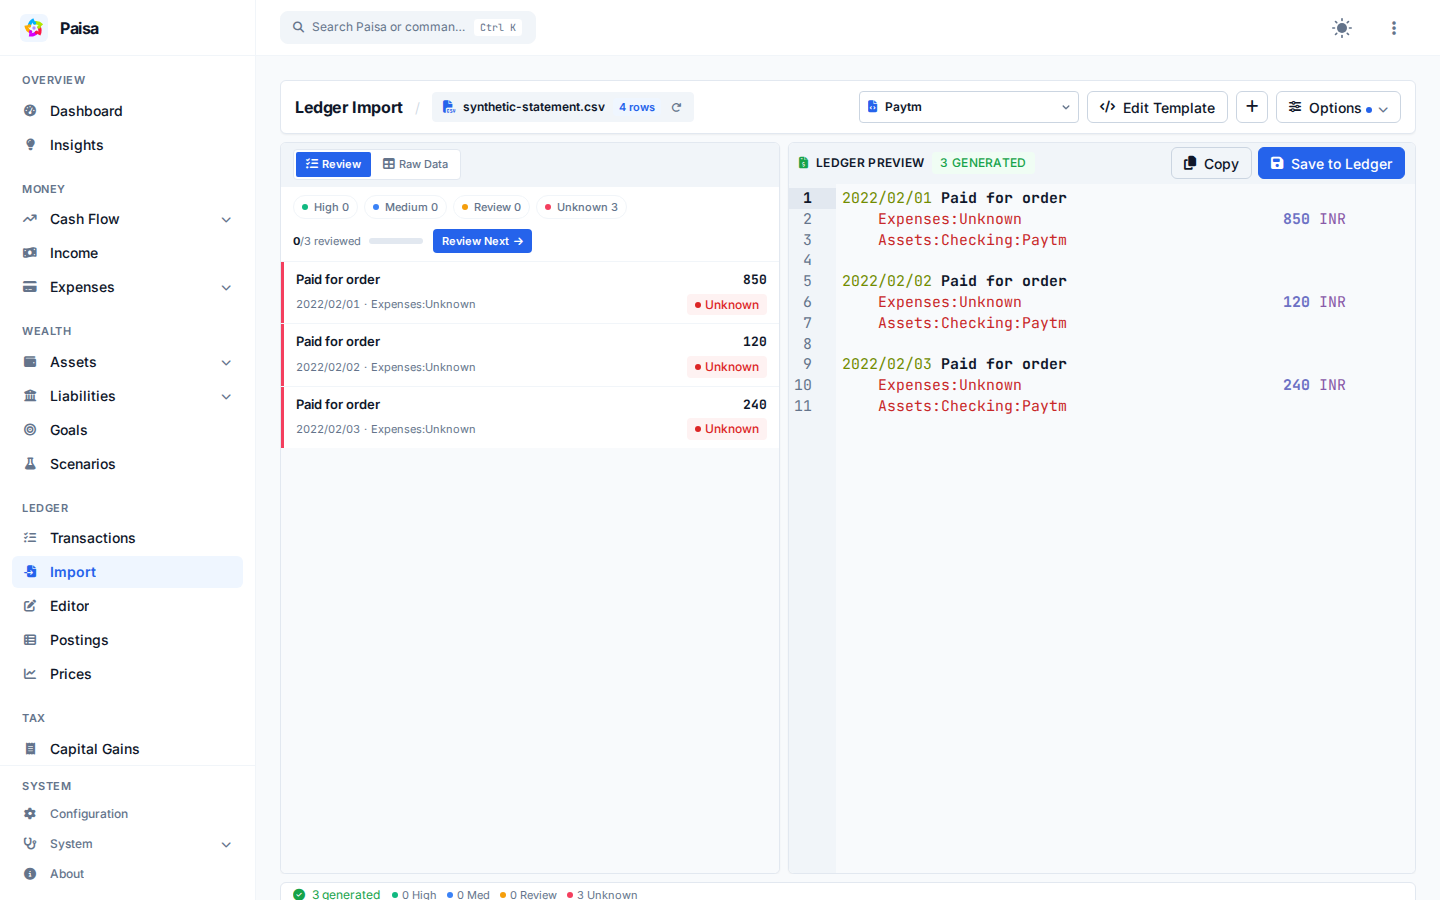
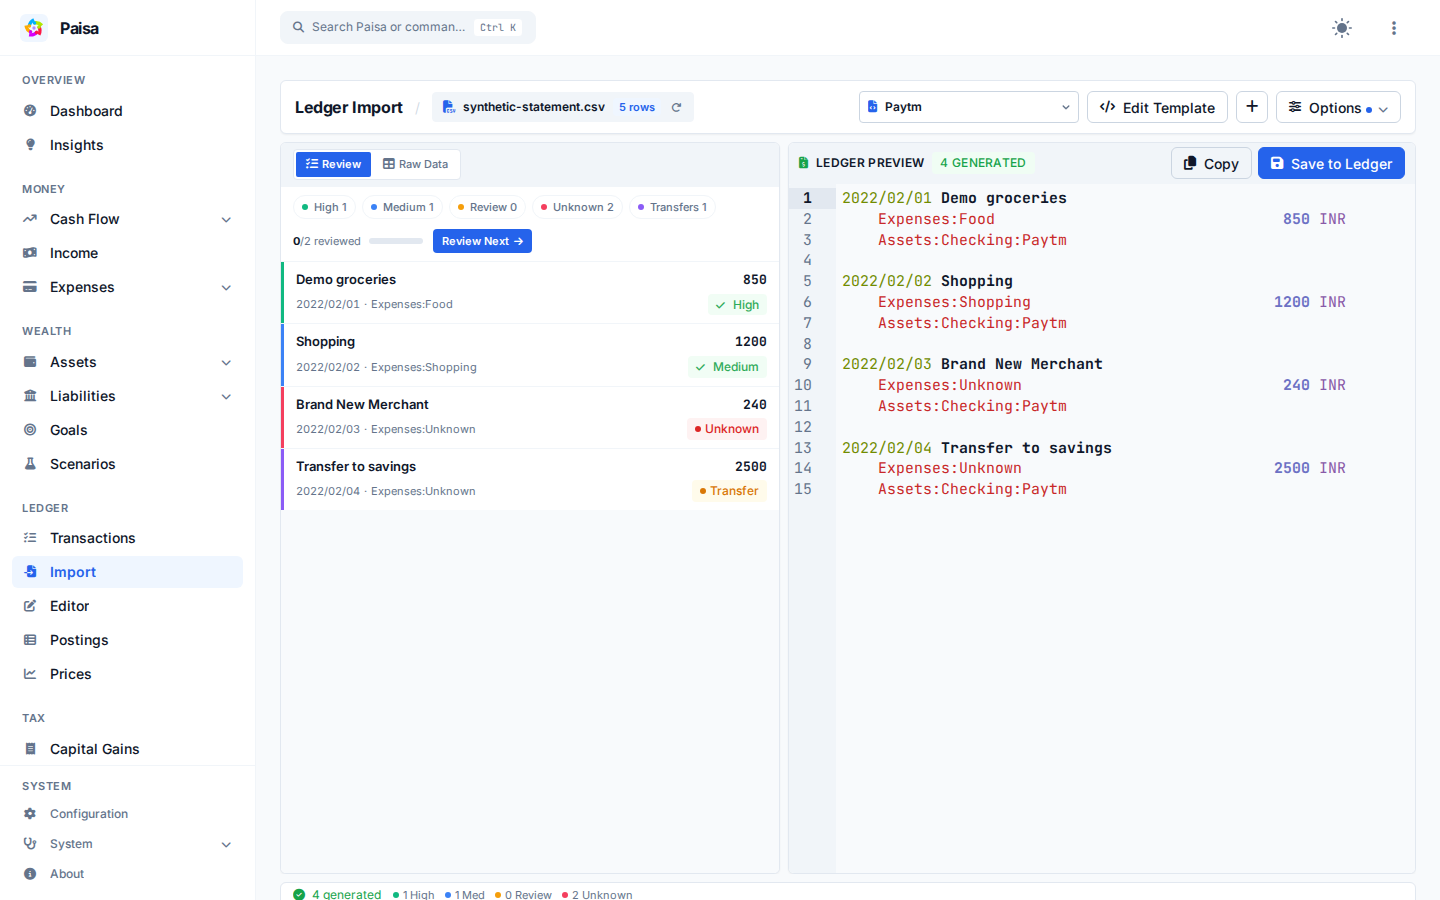
docs: add reproducible feature screenshots

diff --git a/frontend/scripts/capture_showcase.ts b/frontend/scripts/capture_showcase.ts
@@ -40,21 +40,55 @@ try {
       "[data-testid='portfolio-security-type-echart'][data-chart-ready='true']",
     ],
     ["import", "/ledger/import", "input[type=file]"],
+    ["account-suggestions", "/ledger/import", "input[type=file]"],
     ["ledger-editor", "/ledger/editor/main.ledger", ".cm-content"],
     ["goals-recurring", "/more/goals", "text=Retirement"],
+    ["financial-insights", "/insights?period=2022-02", "text=Financial Health"],
+    [
+      "investment-performance",
+      "/assets/gain",
+      "[data-testid='investment-performance-timeline'][data-chart-ready='true']",
+    ],
+    [
+      "scenario-planning",
+      "/more/scenarios",
+      "[data-testid='scenario-projection'][data-chart-ready='true']",
+    ],
+    ["doctor", "/more/doctor", "[data-testid='diagnosis-attention-section']"],
+    [
+      "recurring",
+      "/cash_flow/recurring",
+      "[data-testid='recurring-intelligence-row']",
+    ],
+    [
+      "liabilities",
+      "/liabilities/interest",
+      "[data-testid='interest-overview-echart'][data-chart-ready='true']",
+    ],
+    ["credit-cards", "/liabilities/credit_cards", "text=Amount Due"],
   ];
-  for (const [name, route, ready] of screens) {
+  const selectedNames = new Set(
+    (Deno.env.get("PAISA_SHOWCASE_NAMES") ?? "")
+      .split(",")
+      .map((name) => name.trim())
+      .filter(Boolean),
+  );
+  const selectedScreens = selectedNames.size === 0
+    ? screens
+    : screens.filter(([name]) => selectedNames.has(name));
+  for (const [name, route, ready] of selectedScreens) {
     await page.goto(baseURL + route);
     await page.locator(ready).first().waitFor({
       state: name === "import" ? "attached" : "visible",
     });
-    if (name === "import") {
+    if (name === "import" || name === "account-suggestions") {
       // Entirely invented statement: no bank identifiers or personal records.
       const csv =
         "Date,Activity,Source/Destination,Wallet Txn ID,Comment,Debit,Credit,Transaction Breakup,Status\n" +
-        "1/2/2022 12:00,Paid for order,Main Wallet,DEMO001,Demo groceries,850,,,SUCCESS\n" +
-        "2/2/2022 12:00,Paid for order,Main Wallet,DEMO002,Demo transport,120,,,SUCCESS\n" +
-        "3/2/2022 12:00,Paid for order,Main Wallet,DEMO003,Demo lunch,240,,,SUCCESS\n";
+        "1/2/2022 12:00,Demo groceries,Main Wallet,DEMO001,Synthetic merchant rule,850,,,SUCCESS\n" +
+        "2/2/2022 12:00,Shopping,Main Wallet,DEMO002,Synthetic historical match,1200,,,SUCCESS\n" +
+        "3/2/2022 12:00,Brand New Merchant,Main Wallet,DEMO003,Synthetic unknown,240,,,SUCCESS\n" +
+        "4/2/2022 12:00,Transfer to savings,Main Wallet,DEMO004,Synthetic transfer,2500,,,SUCCESS\n";
       await page.locator("input[type=file]").setInputFiles({
         name: "synthetic-statement.csv",
         mimeType: "text/csv",
@@ -65,6 +99,16 @@ try {
       await page.locator(".preview-editor .cm-content").filter({
         hasText: "2022",
       }).waitFor();
+      await page.locator("[data-testid='prediction-review-bar']").waitFor();
+      if (name === "account-suggestions") {
+        await page.getByTitle("Brand New Merchant").click();
+        await page.locator("[data-testid='prediction-detail']").waitFor();
+      }
+    }
+    if (name === "scenario-planning") {
+      await page.locator("#monthlyExpenses").fill("50000");
+      await page.locator("text=Baseline:").first().waitFor();
+      await page.waitForTimeout(500);
     }
     if (name === "ledger-editor") {
       await page.locator(".cm-content").first().press("Control+Home");

diff --git a/frontend/scripts/test_server.ts b/frontend/scripts/test_server.ts
@@ -84,6 +84,33 @@ try {
     VITE_PAISA_E2E_DEV_UI: "true",
   });
   await run("go", ["build", "-o", binary, "."], join(root, "../backend"));
+  if (Deno.env.get("PAISA_SHOWCASE_CAPTURE") === "true") {
+    const journalPath = join(fixture, "main.ledger");
+    const journal = await Deno.readTextFile(journalPath);
+    await Deno.writeTextFile(
+      journalPath,
+      journal +
+        "\n2021/11/15 Demo streaming\n" +
+        "    Expenses:Entertainment                      499 INR\n" +
+        "    Assets:Checking                           -499 INR\n" +
+        "\n2021/12/15 Demo streaming\n" +
+        "    Expenses:Entertainment                      499 INR\n" +
+        "    Assets:Checking                           -499 INR\n" +
+        "\n2022/01/15 Demo streaming\n" +
+        "    Expenses:Entertainment                      499 INR\n" +
+        "    Assets:Checking                           -499 INR\n",
+    );
+    const configPath = join(fixture, "paisa.yaml");
+    const config = await Deno.readTextFile(configPath);
+    await Deno.writeTextFile(
+      configPath,
+      config +
+        "\nprediction:\n" +
+        "  merchant_rules:\n" +
+        "    - merchant: Demo groceries\n" +
+        "      account: Expenses:Food\n",
+    );
+  }
   await run(binary, [
     "--config",
     join(fixture, "paisa.yaml"),

diff --git a/docs/images/showcase/capture.md b/docs/images/showcase/capture.md
@@ -1,7 +1,7 @@
 # Showcase capture manifest
 
 All media comes from this checkout running locally, never an upstream website.
-Audited application commit: `ae11475933ede60da058272e72f155d47c474c02`.
+Application base commit: `862476272bf51afe89abcb807755b798df843288`.
 
 ## Reproduce
 
@@ -10,7 +10,7 @@ including Deno, Go, SQLite, and Chromium matching Playwright. In two terminals:
 
 ```sh
 cd frontend
-deno run -A scripts/test_server.ts
+PAISA_SHOWCASE_CAPTURE=true deno run -A scripts/test_server.ts
 ```
 
 Once the server reports `http://127.0.0.1:5173/`:
@@ -18,6 +18,8 @@ Once the server reports `http://127.0.0.1:5173/`:
 ```sh
 cd frontend
 deno run -A scripts/capture_showcase.ts
+# Optional: recapture selected assets only
+PAISA_SHOWCASE_NAMES=doctor,recurring deno run -A scripts/capture_showcase.ts
 # Optional; requires ffmpeg:
 deno run -A scripts/encode_showcase.ts
 ```
@@ -44,9 +46,17 @@ and chart animation to settle. Cursor and focus are cleared before capture.
 | `dashboard.png` | `/` | Dashboard cash-flow chart ready; fixture balances and insights loaded |
 | `expenses-budget.png` | `/expense/budget` | February 2022; All Budgets visible, category spending loaded |
 | `investments.png` | `/assets/analysis` | Portfolio security-type chart ready; seeded NIFTY composition |
-| `import.png` | `/ledger/import` | Synthetic three-transaction CSV defined in capture script; Paytm template selected; generated 2022 journal visible |
+| `import.png` | `/ledger/import` | Synthetic four-transaction CSV; Paytm template selected; mixed prediction states and generated journal visible |
+| `account-suggestions.png` | `/ledger/import` | Unknown synthetic merchant selected; confidence, reason, and correction controls visible |
 | `ledger-editor.png` | `/ledger/editor/main.ledger` | Syntax-highlighted fixture journal open at its beginning |
 | `goals-recurring.png` | `/more/goals` | Retirement and House fixture goals visible |
+| `financial-insights.png` | `/insights?period=2022-02` | Monthly health summary and grouped observations visible |
+| `investment-performance.png` | `/assets/gain` | Period metrics, decomposition, and performance chart loaded |
+| `scenario-planning.png` | `/more/scenarios` | Expense assumption changed; baseline and scenario results visible |
+| `doctor.png` | `/more/doctor` | Diagnosis summary and warning findings loaded |
+| `recurring.png` | `/cash_flow/recurring` | Confirmed commitments and a synthetic recurring suggestion visible |
+| `liabilities.png` | `/liabilities/interest` | Loan drawdown, repayment, balance, APR, and interest timeline loaded |
+| `credit-cards.png` | `/liabilities/credit_cards` | Synthetic card amount due, due date, balance, and utilization visible |
 | `paisa-overview.gif` | Above screens | Dashboard → Budget → Portfolio Analysis → Import → Editor → Dashboard; 2 seconds each |
 
 The GIF is a slideshow of actual captures, not a recording of mouse interactions.
@@ -54,6 +64,11 @@ It is 1200×750, 12 seconds, nominally 10 fps (unchanged frames may be coalesced
 with a generated palette and a 6 MiB maximum. Temporary encoding files are removed.
 PNG screenshots are independently useful; README and Product Tour remain complete
 without animation. If encoding fails, use `dashboard.png` as the overview.
+
+When `PAISA_SHOWCASE_CAPTURE=true`, the temporary fixture also receives three
+synthetic streaming payments and one merchant rule. These exist only to show a
+recurring suggestion and mixed import-confidence states; source fixtures and
+application data are not modified.
 
 The browser fixture intentionally exercises partial-data and planning warnings.
 Do not hide those warnings or change application calculations for screenshots.

diff --git a/docs/reference/liabilities/index.md b/docs/reference/liabilities/index.md
@@ -7,6 +7,8 @@ description: "Understand balances, interest, repayments, and credit cards in Pai
 Paisa separates the main parts of debt tracking so you can see what you owe,
 what it costs, and how quickly it is being repaid.
 
+![Liability interest overview with loan drawdown, repayment, balance, and APR](../../images/showcase/liabilities.png)
+
 - **Balance** shows outstanding liability balances from your journal.
 - **Interest** shows interest paid, loan drawdowns, repayments, balance, and APR
   where that information is available.
@@ -16,6 +18,20 @@ what it costs, and how quickly it is being repaid.
 
 Paisa reads these values from your journal. It does not connect to lenders or
 initiate payments.
+
+## Example loan payment
+
+Separate principal from interest in the journal so Paisa can report each part:
+
+```ledger
+2026/09/05 Home loan payment
+    Liabilities:HomeLoan       18000 INR
+    Expenses:Interest           7000 INR
+    Assets:Checking           -25000 INR
+```
+
+This payment reduces the loan principal by ₹18,000, records ₹7,000 as interest
+expense, and moves ₹25,000 out of checking.
 
 See [Balances](balance.md), [Credit cards](../credit-cards.md),
 [Interest](interest.md), and [Repayments](repayment.md) for the individual

diff --git a/docs/reference/prediction.md b/docs/reference/prediction.md
@@ -8,6 +8,24 @@ When you import a statement, Paisa can suggest an account for each transaction.
 Suggestions help with the first pass; you review them in the preview before
 anything is added to the journal.
 
+![Statement import with high, medium, unknown, and possible-transfer account suggestions](../images/showcase/account-suggestions.png)
+
+## Example
+
+Suppose a statement contains `SWIGGY INSTAMART BANGALORE` for ₹1,248. A saved
+merchant rule or several matching transactions in your journal may produce:
+
+```text
+Suggested account: Expenses:Groceries
+Confidence: High
+Reason: known merchant with matching ledger history
+```
+
+An ambiguous description such as `AMAZON` may have been recorded under
+`Expenses:Shopping` four times and `Expenses:Books` three times. Paisa marks a
+split history like this for review instead of pretending that one answer is
+certain.
+
 ## How a suggestion is made
 
 Paisa first checks saved merchant rules, then compares the transaction with

diff --git a/docs/reference/scenario-planning.md b/docs/reference/scenario-planning.md
@@ -4,6 +4,8 @@ Open **Wealth → Scenarios** to compare a financial change with your existing
 plan. Scenarios are temporary: leaving or reloading the page discards them. They
 do not create postings or change configuration, budgets, goals, or prices.
 
+![Scenario Planning comparing changed assumptions with the baseline projection](../images/showcase/scenario-planning.png)
+
 ## Starting point
 
 Paisa captures today's balances in its configured timezone. Checking cash uses `Assets:Checking` and colon-delimited descendants. Investments use the Investment Performance universe: assets excluding checking. Investment valuation and contributions reuse the same accounting, dividend, split, and internal-transfer handling as Investment Performance. Missing prices retain its valuation fallback and are disclosed as estimates.

diff --git a/docs/reference/investment-performance.md b/docs/reference/investment-performance.md
@@ -7,6 +7,8 @@ investments produced. Portfolio Analysis (`/assets/analysis`) describes what you
 Use Investment Performance when you want to separate growth caused by market
 returns from growth caused by new contributions.
 
+![Investment Performance showing period totals, the performance timeline, and return drivers](../images/showcase/investment-performance.png)
+
 Select Current FY, Previous FY, 1 Year, or Since Inception. The URL preserves the
 selection, including when you open an account. Explicit `from` and `to` dates are
 inclusive. Current FY follows your configured financial-year start. One Year ends

diff --git a/docs/reference/insights.md b/docs/reference/insights.md
@@ -9,6 +9,12 @@ out changes worth reviewing. It can highlight spending spikes, budget risk,
 changes in savings rate or net worth, recurring-cost changes, cash warnings, and
 positive trends.
 
+![Financial Insights summary showing items that need attention and other observations](../images/showcase/financial-insights.png)
+
+For example, if groceries usually cost ₹8,000–₹10,000 per month and rise to
+₹16,000, Insights may flag the change for you to review. It points out the
+change; you decide whether it is expected or needs a correction.
+
 ## How to use it
 
 1. Open **Insights** and choose a month.

diff --git a/docs/reference/doctor.md b/docs/reference/doctor.md
@@ -7,6 +7,12 @@ investment reconciliation, and whether Scenario Planning has enough history.
 Doctor is read-only. It links to records that need attention but never changes
 the journal or creates balancing entries.
 
+![Doctor summary with diagnostic severity and findings that need attention](../images/showcase/doctor.png)
+
+For example, Doctor may report that the latest price for `NIFTY` is 12 days
+old. The finding explains that portfolio and net-worth values may be stale and
+links you to the prices that need attention.
+
 ## Checks
 
 Doctor runs these checks:

diff --git a/docs/reference/import.md b/docs/reference/import.md
@@ -8,6 +8,8 @@ Import converts rows from **CSV**, **TXT**, **XLS**, **XLSX**, or **PDF** files
 into Ledger transactions. The page shows the source data, the generated journal,
 and the template that connects the two.
 
+![Statement import preview with generated Ledger entries and account suggestions](../images/showcase/import.png)
+
 !!! warning "Review PDF imports carefully"
 
     PDF table detection is experimental and may split or misread rows. Always

diff --git a/docs/reference/financial-reports.md b/docs/reference/financial-reports.md
@@ -7,6 +7,8 @@ description: "Choose the Paisa report that answers your financial question."
 Paisa builds its reports from your journal and the prices available for its
 commodities. Start with the question you want to answer:
 
+![Paisa dashboard summarizing balances, cash flow, expenses, and investments](../images/showcase/dashboard.png)
+
 | Question | Report |
 | --- | --- |
 | What do my asset accounts hold today? | **Assets → Balance** |

diff --git a/docs/reference/recurring.md b/docs/reference/recurring.md
@@ -8,6 +8,8 @@ Recurring transactions are regular payments such as rent, subscriptions,
 insurance, and loan payments. The Recurring page shows upcoming and recently
 missed payments, along with the dates Paisa expects next.
 
+![Recurring transactions showing a confirmed payment and a suggested pattern to review](../images/showcase/recurring.png)
+
 ## What you see
 
 Confirmed patterns show recent amounts, the usual amount, expected date
